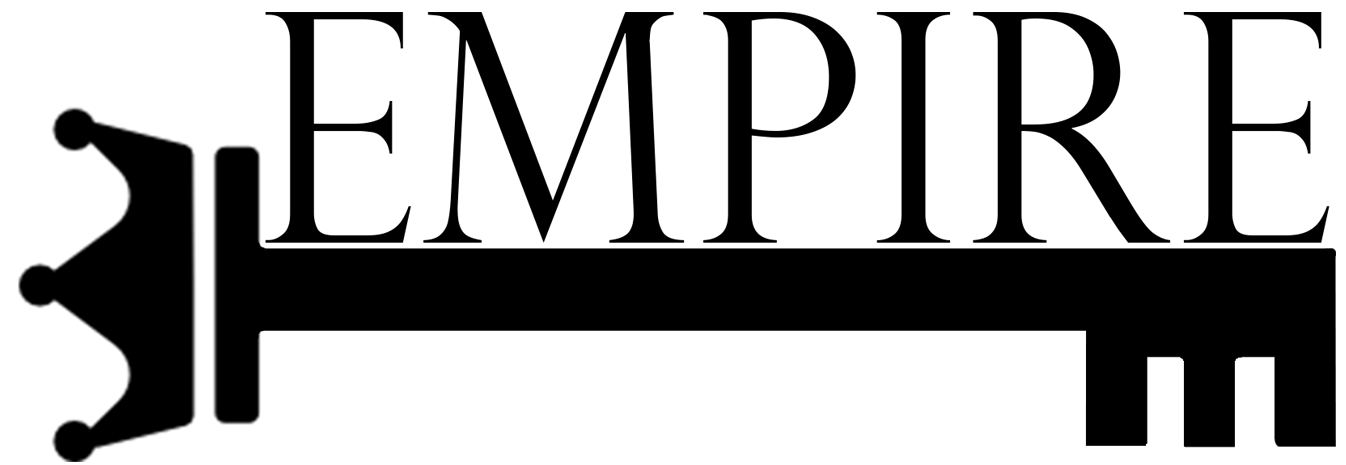
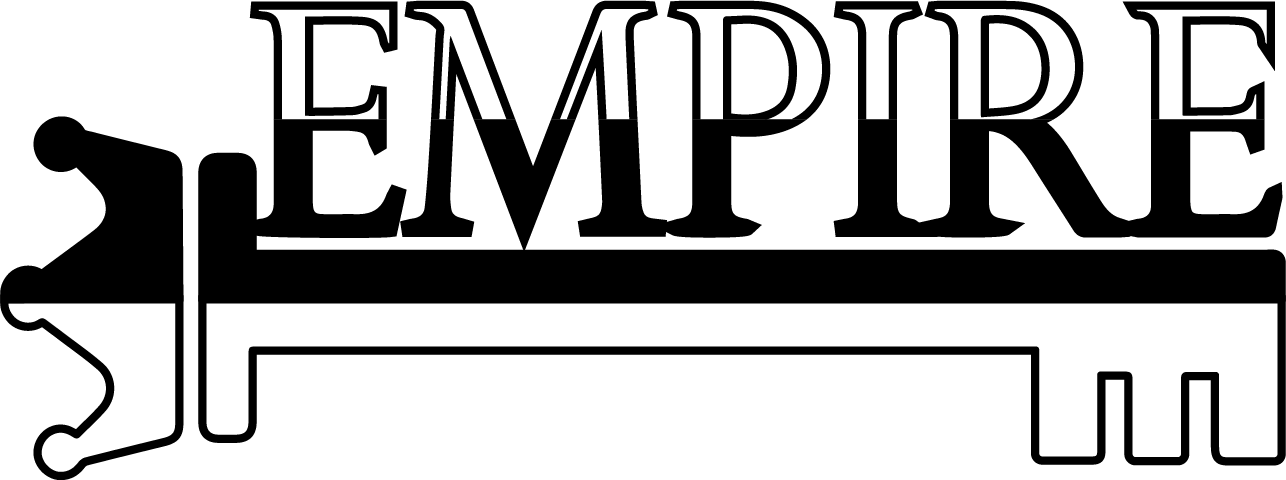
Nyeste. Updated forside og små rettelser i skelet

diff --git a/produkter.html b/produkter.html
@@ -4,12 +4,20 @@
 
 <head>
   <meta charset="UTF-8">
+
+  <!-- Mobil venlig -->
   <meta name="viewport" content="width=device-width, initial-scale=1.0">
+
+<!-- Link til vores style.css-->
   <link href="style.css" type="text/css" rel="stylesheet">
+
+<!-- Link til google fonts-->
 <link href="https://fonts.googleapis.com/css?family=Oswald" rel="stylesheet">
 <link href="https://fonts.googleapis.com/css?family=Libre+Baskerville" rel="stylesheet">
 
   <title>Empire!</title>
+
+  <!-- faneblads ikon -->
   <link rel="icon" href="Keyicon.png">
 </head>
 
@@ -51,9 +59,38 @@
   }
   </script>
 
+
+
+<h1 class="produkter">Produkter</h1>
+  <p class="produkter">
+    Vores produkter udtrykker kvalitet, selvsikkerhed, komfort og ikke mindst luksus.
+    Når vores møbel er færdigt, er der lagt en masse lidenskab og ekspertise i håndværket.
+    <br>Møbelsnedkerne har haft hvert møbel mellem deres hænder, for at vi med sikkerhed, har fået skabt en varm modernitet i møblets udtryk.
+    <br>Vi arbejder bl.a. med ægte anilin læder og bladguld  - materialer der kun bliver smukkere over tid.
+  </p>
+
+<h2>Stole</h2>
+<p>
+<img alt="stol1" src="sofa1.png" alt="stol1" style=" width: 20%; float:left;">
+En stol i det findes materiale, blah blah.. ægte... jaja... jjaa
+</p>
+<img alt="stol2" src="img/stol2.png" style="float:left;">
+<img alt="stol3" src="stol3.png" style="float:left;">
+<img alt="stol4" src="stol4.png" style="float:left;">
+
+
+
+
+
+
   <footer>
     <p class="openhours"> Showroom åbningstider:</p>
-    <p class="mandag"> Mandag-Lørdag: 09:00-18:00</p>
+    <p class="mandag"> Mandag: 09:00-18:00</p>
+    <p> Tirsdag: 09:00-18:00</p>
+    <p> Onsdag: 09:00-18:00</p>
+    <p> Torsdag: 09:00-18:00</p>
+    <p> Fredag: 09:00-18:00</p>
+    <p> Lørdag: 09:00-18:00</p>
     <p class="mandag"> Søndag: Lukket</p>
     <br>
     <p class="mandag">Kontakt: Empire@furniture.dk</p>
@@ -62,6 +99,8 @@
   </footer>
 
 </body>
+
+
 
 
 

diff --git a/style.css b/style.css
@@ -55,7 +55,7 @@ header span{
 }
 
 .logo{
-  max-width: 6em;
+  max-width: 10em;
   margin-left: 2.5%;
   margin-top: 0.8em;
 
@@ -82,7 +82,6 @@ header span{
 }
 
 body figure{
-
 position: relative;
 margin-top: 4em;
 margin-left: 0%;
@@ -121,12 +120,22 @@ article{
   width: 100%;
 }
 
+article iframe{
+  width: 95%;
+  height: 15em;
+  margin-left: 2.5%;
+  margin-right: 2.5%;
+  border-radius: 0.4em;
+  border: none;
+}
+
 article h2{
   font-size: 100%;
   font-family: 'Oswald', sans-serif;
   margin-left: 2.5%;
   margin-bottom: -0.5em;
 }
+
 body article p{
   font-family: 'Libre Baskerville', serif;
   text-decoration: none;
@@ -134,8 +143,6 @@ body article p{
   width: 95%;
   margin-left: 2.5%;
   margin-right: 2.5%;
-
-
 }
 
 body article figure img{
@@ -147,6 +154,7 @@ body article figure img{
 .fig2{
   width: 100%;
 }
+
 .forpic2{
   max-width: 95%;
   margin-left: 2.5%;
@@ -155,10 +163,11 @@ body article figure img{
 }
 
 body footer{
+  position: absolute;
   padding-top: 0.5em;
   background-color: black;
   height: 6em;
-  max-width: 100%;
+  width: 100%;
 }
 
 
@@ -208,6 +217,14 @@ body footer p{
 /* ------------------------------------------*/
 
 @media screen and (min-width: 700px){
+
+  article iframe{
+    width: 60%;
+    height: 25em;
+    margin-left: 20%;
+    margin-right: 20%;
+  }
+
   .sidenav {
       display: none;
       height: 60%;
@@ -239,6 +256,13 @@ body footer p{
 /* ------------------------------------------------------ */
 
 @media screen and (min-width: 1000px){
+
+  article iframe{
+    width: 70%;
+    height: 25em;
+    margin-left: 15%;
+    margin-right: 15%;
+}
 
   article h2{
     font-size: 150%;
@@ -325,6 +349,13 @@ body footer p{
 /* ------------------------------------------------------ */
 
 @media screen and (min-width: 1300px){
+
+
+    article iframe{
+      width: 50%;
+      margin-left: 25%;
+      margin-right: 25%;
+  }
 
   article h2{
     font-size: 150%;

diff --git a/index.html b/index.html
@@ -61,10 +61,14 @@
   <article>
     <h2>Kvalitet i højsædet</h2>
     <p>Hos Empire ved vi hvor vigtigt kvalitet og godt håndværk er. Derfor er det også vores ønske, at tilbyde produkter af den højeste kvalitet, lavet af de dygtigste håndværkerer.</p>
-    <p>Vi gør meget for at kvalitetssikre vores produkter således, at vi kan sørge for, at vores kunder forlader en afsluttet handel, med den største tilfredshed. Vi vil gå langt for at sikre dette, og tilbyder derfor blandt andet tilfredshedsgaranti samt udvidet forsikring på alle vores produkter.</p>
+    <p>Vi samarbejder med forskellige møbelsnedkere rundt omkring i hele verden, hvilket giver et unikt look og feel til vores møbler.<br> Se foreksempel hvordan en af vores møbelsnedkere "The Samurai Carpenter" behandler træet med koldpresset linolie.</p>
+    <iframe src="https://www.youtube.com/embed/UVYOtLbEWyo?rel=0&amp;showinfo=0&amp;start=349"></iframe>
+    <p>Linolie udvindes af hørfrø og har været brugt til træbehandling siden 1600-tallet. De små molekyler i koldpresset linolie plejer og mætter træet. Olien påvirker derudover også træet, så det bliver vandafvisende.</p>
     <h2>Tilfredshedsgaranti og udvidet forsikring</h2>
+    <p>Hos Empire er vi klar til, at gå langt for at sikre den bedste service. Derfor tilbyder vi som noget nyt tilfredshedsgaranti samt udvidet forsikring, på alle vores produkter.</p>
     <p>Læs mere om vores tilfredshedsgaranti samt udvidet forsikring <a href="omos.html">her</a>. Kom også gerne forbi vores showroom og se alle vores produkter samt få en snak med en af vores dygtige medarbejdere.</p>
   </article>
+
   <figure class="fig2">
     <img class="forpic2" src="forsidepic1.jpg" alt="Stole">
   </figure>
